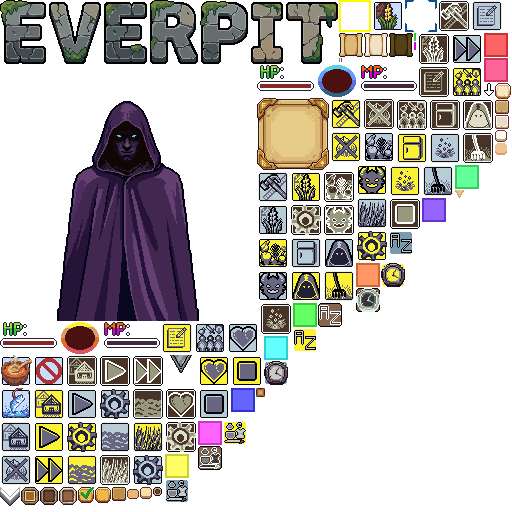
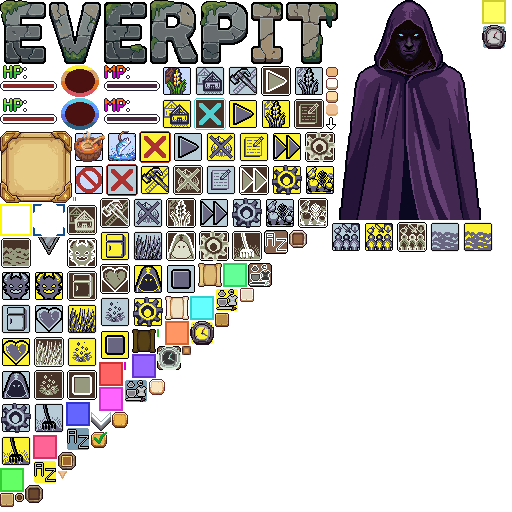
Update merchant sprite to be trimmed. Add close buttons.

diff --git a/PitHero/UI/SecondChanceShopUI.cs b/PitHero/UI/SecondChanceShopUI.cs
@@ -18,8 +18,6 @@ namespace PitHero.UI
     /// <summary>UI shell for the Second Chance Shop - provides a button, a vault window, and a separate hero panel for purchasing items and crystals.</summary>
     public class SecondChanceShopUI
     {
-        private const float MerchantSpriteSize = 256f; // merchant art is 256x256
-
         private Stage _stage;
         private HoverableImageButton _shopButton;
 
@@ -105,10 +103,11 @@ namespace PitHero.UI
             _shopButton.SetSize(sprite.SourceRect.Width, sprite.SourceRect.Height);
             _shopButton.OnClicked += (button) => TriggerToggle();
 
-            // Load merchant sprite - 256x256 px; displayed between shop and hero panels
+            // Load merchant sprite; displayed between shop and hero panels. Sized to the atlas frame
+            // so the full character is visible, and the layout reads those dimensions back off the
+            // Image rather than hardcoding them.
             var merchantSprite = uiAtlas.GetSprite("SecondChanceMerchant");
             _merchantSprite = new Image(new SpriteDrawable(merchantSprite));
-            // Display at natural sprite dimensions so the full character is visible
             _merchantSprite.SetSize(merchantSprite.SourceRect.Width, merchantSprite.SourceRect.Height);
 
             _merchantBubble = new MerchantSpeechBubble();
@@ -475,11 +474,17 @@ namespace PitHero.UI
                 float heroH = UILayout.FitHeight(GameConfig.SecondChanceHeroPanelHeight, stageH, margin, margin);
                 float heroY = UILayout.ClampY(System.Math.Min(GameConfig.SecondChanceHeroPanelY, stageH - heroH - margin), heroH, stageH);
 
-                // Merchant sprite (between panels) — his feet land on the bottom edge of the panels
-                float spriteY = heroY + heroH - MerchantSpriteSize;
+                // Merchant sprite (between panels) — measured from the art itself, so the frame size
+                // can change without touching the layout. He is centered on the span between the two
+                // windows and his feet land on the bottom edge of the panels.
+                float merchantW = _merchantSprite.GetWidth();
+                float merchantH = _merchantSprite.GetHeight();
+                // Snap to a whole pixel so the art stays crisp when the width is odd
+                float spriteX = Mathf.Round(GameConfig.SecondChanceMerchantSpriteCenterX - merchantW * 0.5f) + xOffset;
+                float spriteY = heroY + heroH - merchantH;
                 if (spriteY < 0f) spriteY = 0f;
                 _stage.AddElement(_merchantSprite);
-                _merchantSprite.SetPosition(GameConfig.SecondChanceMerchantSpriteX + xOffset, spriteY);
+                _merchantSprite.SetPosition(spriteX, spriteY);
                 _merchantSprite.ToFront();
 
                 // Greeting bubble above the merchant's head; persists until the shop closes
@@ -488,8 +493,8 @@ namespace PitHero.UI
                 {
                     _stage.AddElement(_merchantBubble);
                     _merchantBubble.SetTailAnchor(
-                        GameConfig.SecondChanceMerchantSpriteX + xOffset + GameConfig.SecondChanceMerchantBubbleAnchorX,
-                        spriteY + GameConfig.SecondChanceMerchantBubbleAnchorY);
+                        spriteX + merchantW * 0.5f,
+                        spriteY + GameConfig.SecondChanceMerchantBubbleHeadTopY);
                     _merchantBubble.Show(greeting);
                     _merchantBubble.ToFront();
                 }

diff --git a/PitHero/GameConfig.cs b/PitHero/GameConfig.cs
@@ -531,17 +531,18 @@ namespace PitHero
         public const float SecondChanceHeroPanelWidth = 852f;
         public const float SecondChanceHeroPanelHeight = 340f;
 
-        // Merchant sprite centered in the span between the shop window and the hero panel:
-        // (509 + 350 + 1068) / 2 - 128 = 835.5, snapped to a whole pixel so the art stays crisp.
-        // The 256px frame is wider than that span, so its transparent margins overlap both windows.
-        // The sprite Y is derived at show time: SecondChanceShopUI stands the merchant on the bottom
-        // edge of the panels, so it follows the fitted panel height at any design height.
-        public const float SecondChanceMerchantSpriteX = 836f;
+        // Merchant sprite centered in the span between the shop window and the hero panel. Only the
+        // span center is a constant - SecondChanceShopUI measures the atlas frame at load time and
+        // derives X (center - width/2, snapped to a whole pixel so the art stays crisp) and Y (feet
+        // on the bottom edge of the panels, so it follows the fitted panel height at any design
+        // height). Swapping in differently sized merchant art needs no change here.
+        public const float SecondChanceMerchantSpriteCenterX =
+            (SecondChanceShopWindowX + SecondChanceShopWindowWidth + SecondChanceHeroPanelX) / 2f;
 
-        // Merchant greeting bubble tail-tip anchor, relative to the sprite's top-left (issue #385).
-        // X centers on the 256px art; Y sits at the top of the merchant's head within the frame.
-        public const float SecondChanceMerchantBubbleAnchorX = 128f;
-        public const float SecondChanceMerchantBubbleAnchorY = 40f;
+        // Merchant greeting bubble tail-tip anchor (issue #385). X is the sprite's own center; this
+        // is how far below the top of the frame the merchant's head starts. The current art is
+        // cropped tight to the hood, so the head begins at the very top of the frame.
+        public const float SecondChanceMerchantBubbleHeadTopY = 0f;
 
         // Inventory interaction
         /// <summary>Minimum pixel movement to initiate a drag operation.</summary>

diff --git a/PitHero.Tests/UI/InventoryGridLayoutTests.cs b/PitHero.Tests/UI/InventoryGridLayoutTests.cs
@@ -59,14 +59,13 @@ namespace PitHero.Tests.UI
         [TestMethod]
         public void Merchant_IsCenteredBetweenTheShopAndHeroPanels()
         {
-            const float spriteSize = 256f;
+            // The sprite's own width drives its X at runtime; all this constant has to be is the
+            // midpoint of the gap between the two windows.
             float shopRight = GameConfig.SecondChanceShopWindowX + GameConfig.SecondChanceShopWindowWidth;
-            float spriteCenter = GameConfig.SecondChanceMerchantSpriteX + spriteSize / 2f;
             float spanCenter = (shopRight + GameConfig.SecondChanceHeroPanelX) / 2f;
 
-            // The sprite X is a whole pixel, so allow the half-pixel rounding
-            Assert.IsTrue(System.Math.Abs(spriteCenter - spanCenter) <= 0.5f,
-                $"merchant center {spriteCenter} should sit at the span center {spanCenter}");
+            Assert.AreEqual(spanCenter, GameConfig.SecondChanceMerchantSpriteCenterX, 0.001f,
+                "the merchant is centered on the span between the shop and hero panels");
         }
     }
 }
